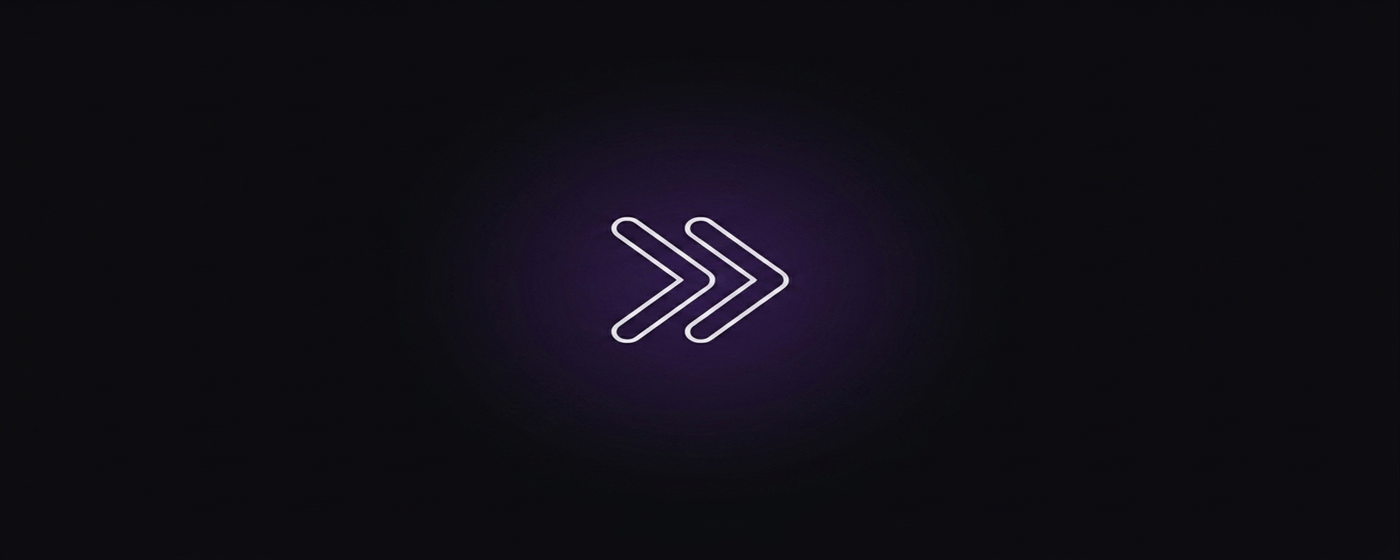
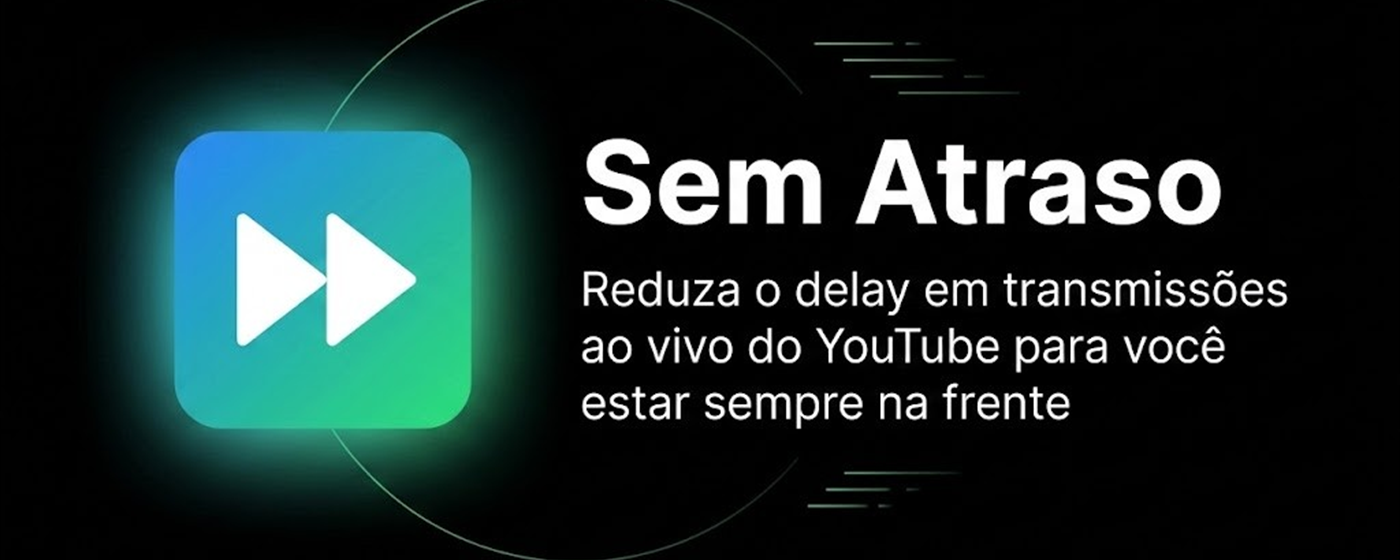
fix: regex universal de espectadores em 16 idiomas e imagens promocionais Web Store

diff --git a/content.js b/content.js
@@ -409,26 +409,28 @@
 
     meta.viewers = "";
 
+    var rx = /([\d.,\u00a0\s]+(?:[KkMm](?![a-zA-Z\u00e0-\u00fc]))?)\s*.*?(?:assistindo|watching|espectadores|directo|direct|spectateurs|zuschauer|spettatori|\u8996\u8074|\uC2DC\uCCAD|\u89C2\u770B|\u0437\u0440\u0438\u0442\u0435\u043B|\u0645\u0634\u0627\u0647\u062F|\u0926\u0930\u094D\u0936\u0915|izleyici|izliyor|menonton|widz|kijkers)/i;
+
     var viewCount = document.querySelector("#view-count[aria-label]");
     if (viewCount) {
       var ariaLabel = viewCount.getAttribute("aria-label") || "";
-      var vm = ariaLabel.match(/([\d.,]+)\s*(?:assistindo|watching)/i);
-      if (vm) meta.viewers = vm[1];
+      var vm = ariaLabel.match(rx);
+      if (vm) meta.viewers = vm[1].trim();
     }
 
     if (!meta.viewers) {
       var vcSpan = document.querySelector("ytd-video-view-count-renderer .view-count");
       if (vcSpan) {
-        var vm2 = (vcSpan.textContent || "").match(/([\d.,]+)\s*(?:assistindo|watching)/i);
-        if (vm2) meta.viewers = vm2[1];
+        var vm2 = (vcSpan.textContent || "").match(rx);
+        if (vm2) meta.viewers = vm2[1].trim();
       }
     }
 
     if (!meta.viewers) {
       var spans = document.querySelectorAll("ytd-watch-metadata #info span, #info-strings yt-formatted-string");
       for (var i = 0; i < spans.length; i++) {
-        var vm3 = (spans[i].textContent || "").match(/([\d.,]+)\s*(?:assistindo|watching)/i);
-        if (vm3) { meta.viewers = vm3[1]; break; }
+        var vm3 = (spans[i].textContent || "").match(rx);
+        if (vm3) { meta.viewers = vm3[1].trim(); break; }
       }
     }
   }